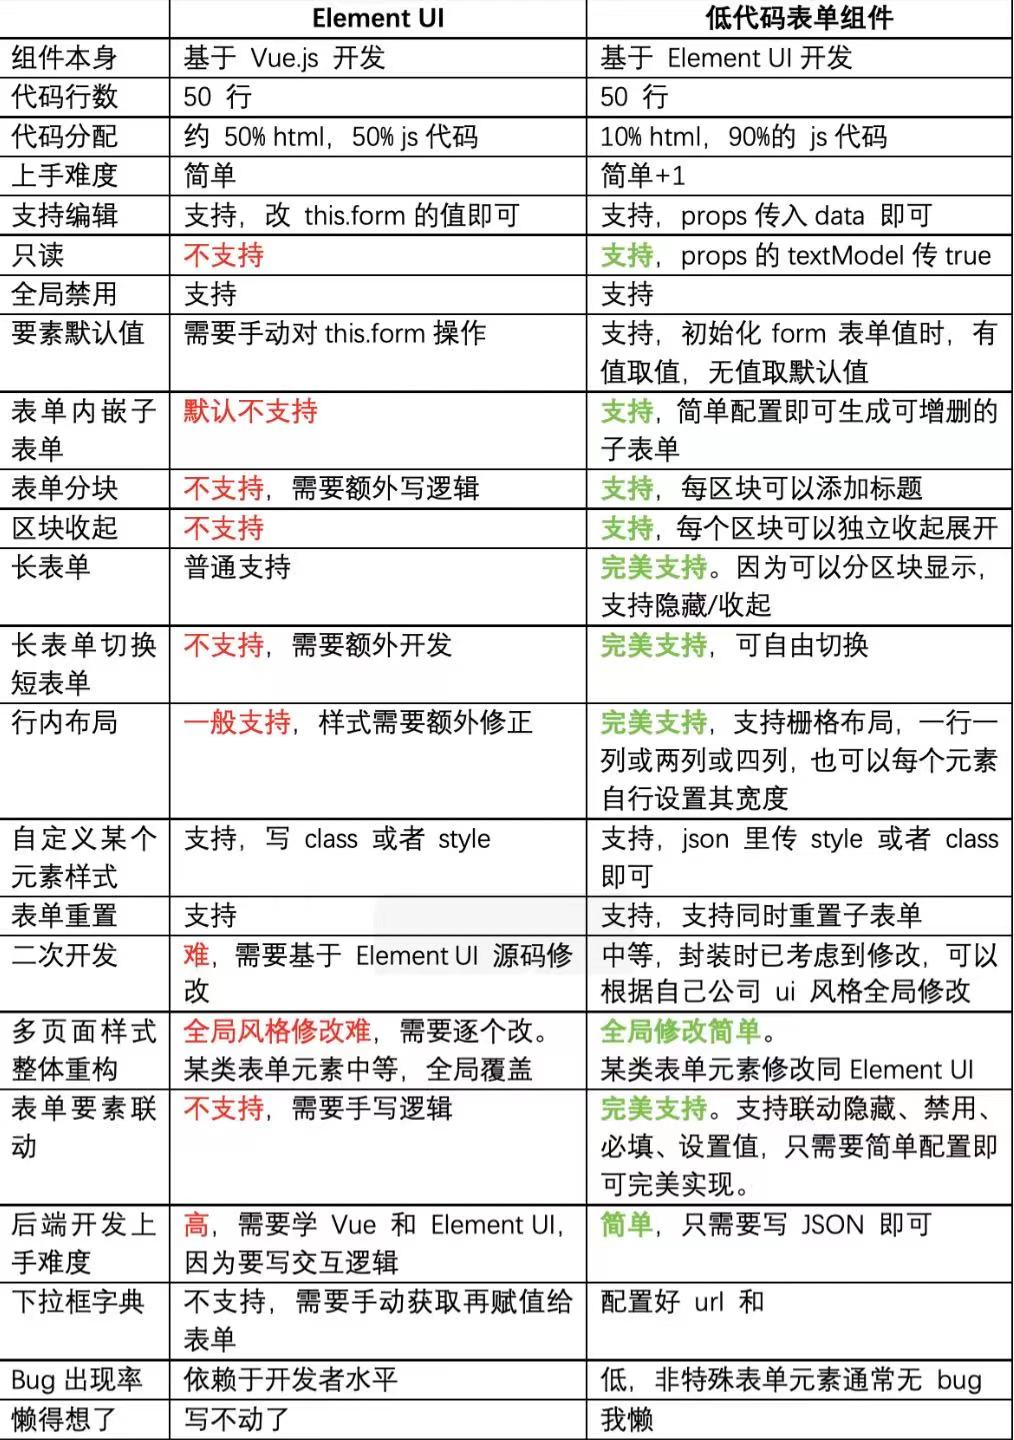
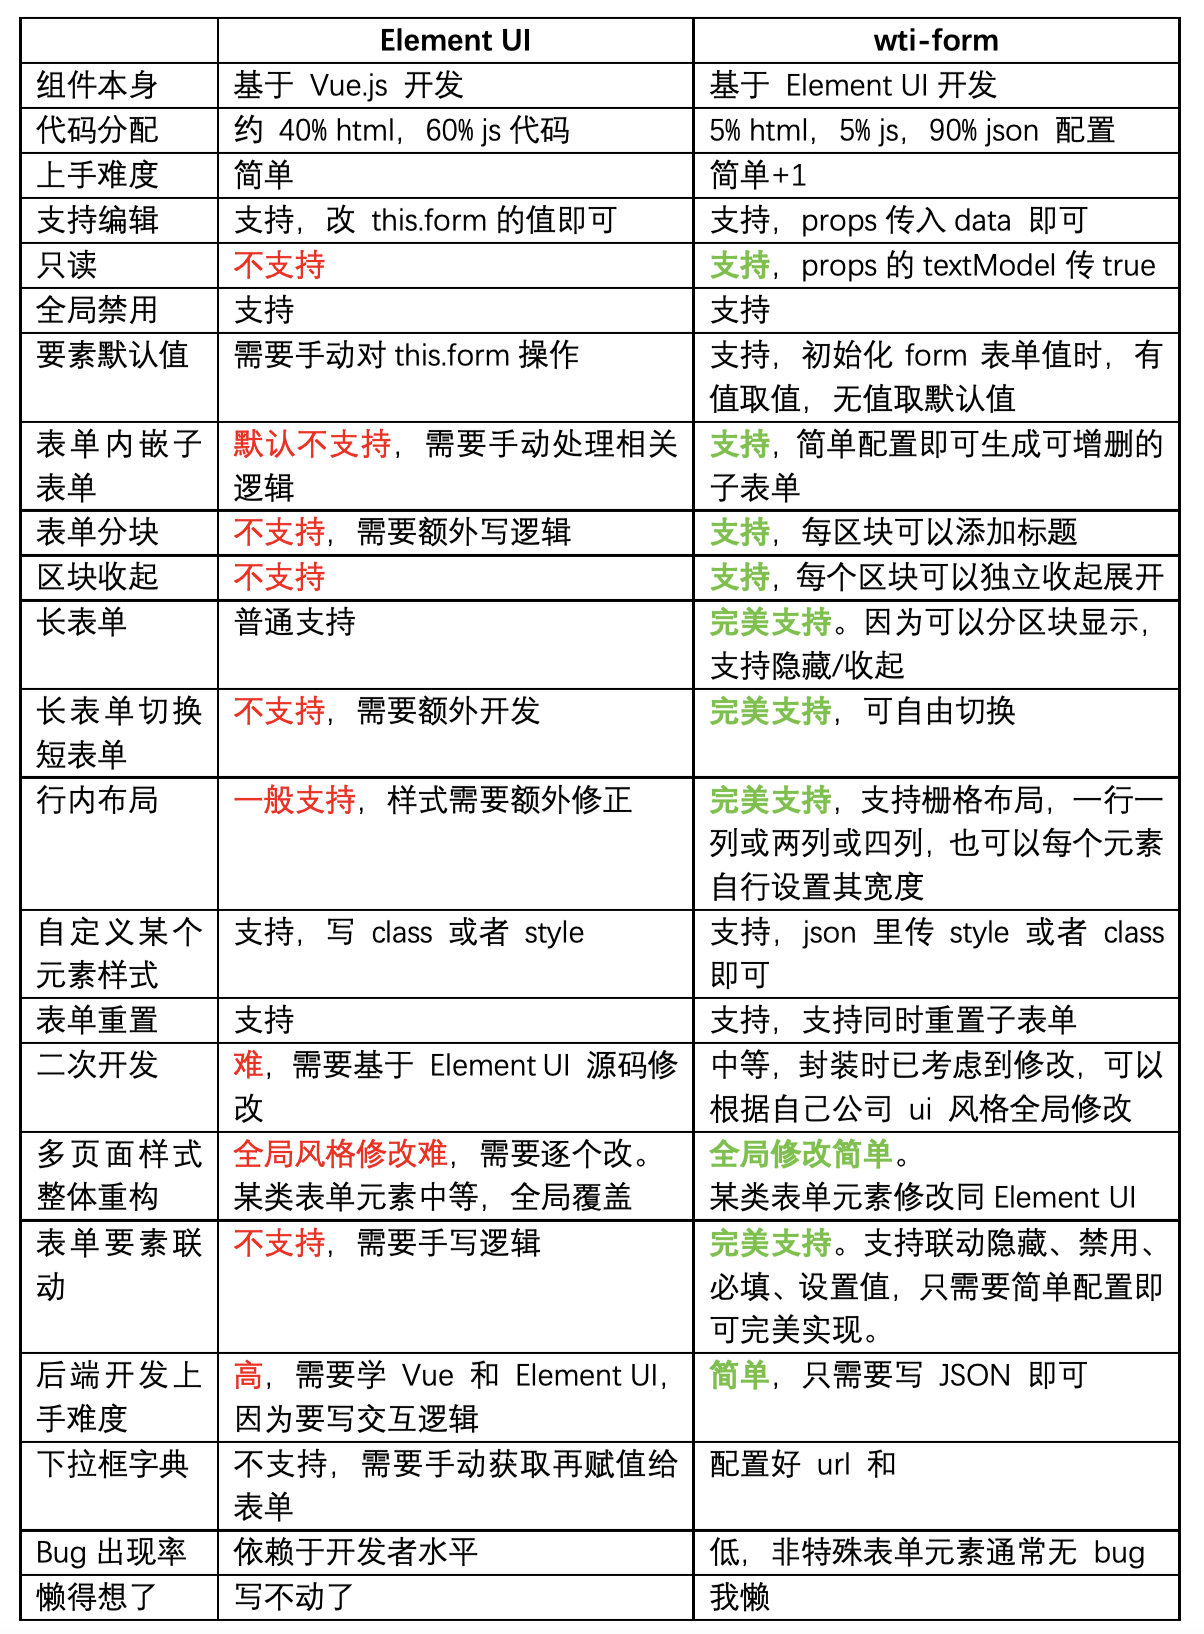
更新文档，修复一个 bug

diff --git a/src/components/wti-form/index.vue b/src/components/wti-form/index.vue
@@ -757,7 +757,7 @@
                     this.fields.map(field => {
                         const list = [];
                         field.children.forEach(item => {
-                            if (item.type === 'child-form' || item.type === 'table-readonly') {
+                            if (item.type === 'child-form') {
                                 list.push(item.key);
                             }
                         });

diff --git a/doc/低代码表单组件.md b/doc/低代码表单组件.md
@@ -1,20 +1,22 @@
-# Vue表单组件，兼容 ElementUI，提升1000%开发效率
+# 和 ElementUI 相比，提升1000%开发效率Vue表单组件
 
 ## 一、简介
 
 > 作者：
 
-零零水。曾写过多个 10w+，1w+博客。前阿里巴巴前端开发，现于国企工作，寻求 work life balance。擅长做一些提高效率的简单工作。
+零零水。曾写过多个 10w+，1w+博客。前阿里巴巴前端开发，现于某金融国企混，work life balance。擅长做一些提高效率的简单工作。
 
 另，从来不当标题党。
 
-> 功能
+> 描述
 
-Vue.js 低代码表单组件，基于 Element UI 二次开发而成。
+Vue.js 低代码表单组件，基于 Element UI 二次开发而成。命名为 wti-form
+
+组件高度封装 js 逻辑的方式，是多表单页面场景的大杀器。
 
 > 优点
 
-可以极大的提高开发效率（相对于 Element UI 来比)，预计最低提升效率 200%，最高提升效率 1000%以上（相对于 Element UI 来比）。
+wti-form 可以极大的提高开发效率（相对于 Element UI 来比)，预计最低提升效率 200%，最高提升效率 1000%以上（相对于 Element UI 来比）。
 
 我不和使用原生 Vue.js 来比，那样没意思。
 
@@ -25,7 +27,7 @@ Vue.js 低代码表单组件，基于 Element UI 二次开发而成。
 * 原本使用 Element UI ，但想减少重复工作量的开发者；
 * 一线开发人员水平层次不齐，想要提高初中级开发的代码产出率、降低 bug 量的技术负责人；
 
-> 组件特点
+> wti-form 特点：
 
 * 基本不需要写 html，而是写 json 配置；
 * 支持各种一般场景和常见复杂场景；
@@ -38,14 +40,14 @@ Vue.js 低代码表单组件，基于 Element UI 二次开发而成。
 
 > github 和文档地址：
 
-* 组件：<a href='https://github.com/qq20004604/wti-form'>https://github.com/qq20004604/wti-form</a>
+* 组件源代码：<a href='https://github.com/qq20004604/wti-form'>https://github.com/qq20004604/wti-form</a>
 * 文档源代码：<a href='https://github.com/qq20004604/wti-form-demo'>https://github.com/qq20004604/wti-form-demo</a>
 *
 文档地址：<a href='http://lovelovewall.com/wti_form_demo/home.html#/Install'>http://lovelovewall.com/wti_form_demo/home.html#/Install</a>
 
 ## 二、详细功能描述
 
-表单全局功能：
+wti-form 表单全局功能：
 
 * 通过 json 数据来生成表单；
 * 通过 data 数据给表单每个元素赋值；
@@ -60,7 +62,7 @@ Vue.js 低代码表单组件，基于 Element UI 二次开发而成。
 * 二次开发自定义表单元素难度极低；
 * 其他懒得写了；
 
-表单元素功能：
+wti-form 表单元素功能：
 
 * 支持设置默认禁用、默认隐藏、默认值；
 * 支持设置必填；
@@ -94,7 +96,33 @@ Vue.js 低代码表单组件，基于 Element UI 二次开发而成。
 
 因此，将本组件和 Element UI 进行对比，帮助你了解本组件的优势。
 
-如下图
+附图 2，图中对于核心点已经高亮
 
 <img src='./02.png'/>
+
+## 四、架构设计
+
+先附源代码地址：<a href='https://github.com/qq20004604/wti-form/tree/main/package'>https://github.com/qq20004604/wti-form/tree/main/package</a>
+
+再上一个架构分层图，附图 3：
+
+<img src='./03.png'/>
+
+结合图 2 和图 3，基本上可以描述清楚 wti-form 的大致设计了。
+
+总的来说，wti-form 的架构可以这么来理解：
+
+* 数据层：核心是【表单数据】和【配置数据】，而其他数据都是基于这 2 个动态计算出来的，并不会单独存储；
+* UI 层：根据配置数据动态生成 ui，因此假如传入的配置变更，那么 ui 也会随着动态变化；
+* 事件层：基于生成的 ui，用户进行操作，则将触发事件层。而事件层最终影响的是【表单数据】。
+
+因此，整个组件，开发者只需要关心 2 个数据，以及基于数据衍生出来的 ui 和事件。因此并不存在同一个源数据但存储于多处导致可能的冲突和一致性，因此可以轻松写出高可靠度的代码。
+
+而基于这样的设计，二次开发也是很简单的一件事情了。
+
+但因为篇幅所限（才怪，是因为我懒），因此上图还缺少了这些：
+
+* 子表单的事件流，以及父表单与子表单的交互方法；
+* 表单与表单元素之间的关联设计；
+* 基于个人需求，二次开发属于自己的内部组件的方法；
 
